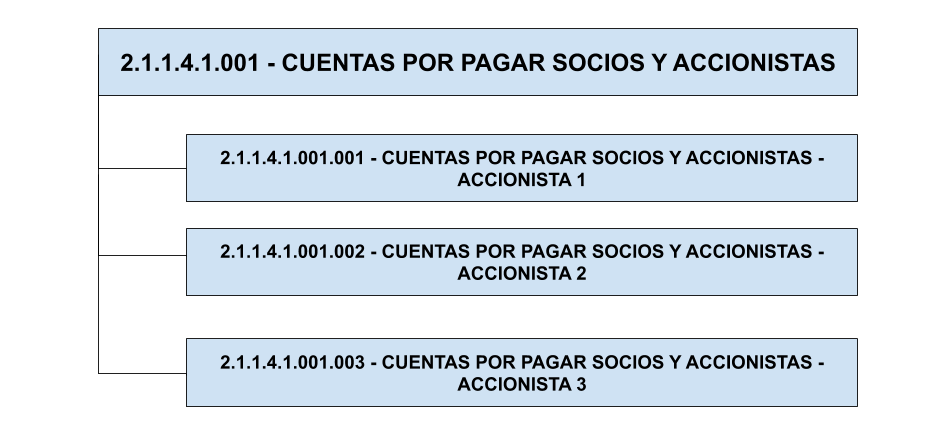
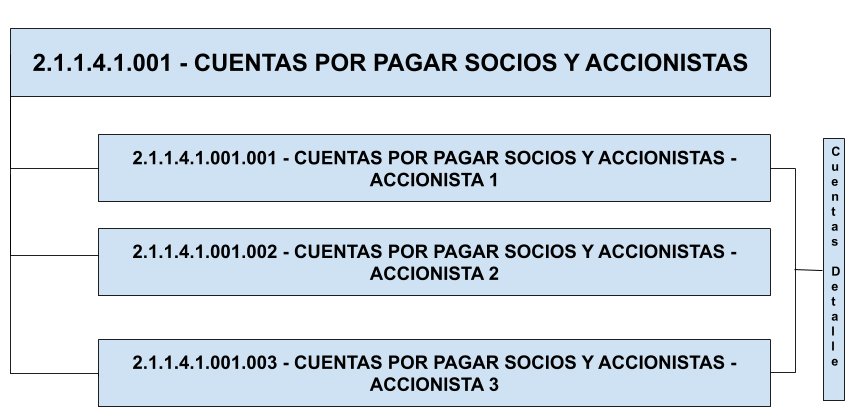
Add Change Varied (#262)
- Add info Report Financial
- Add info Accounting combination
- Add info Accounting dimensions
- Fixes: #257

diff --git a/src/adempiere/performance-analysis/accounting-dimensions.rst b/src/adempiere/performance-analysis/accounting-dimensions.rst
@@ -1,6 +1,8 @@
 .. _ERPyA: http://erpya.com
 .. |Ejemplo de Dimensión| image:: resources/Example-dimension.png
 .. |Dimensión Contable| image:: resources/Dimension-Accounting.png
+.. |Dimensión Socio de Negocio| image:: resources/dimension-BP.png
+
 .. _documento/dimensiones-contable:
 
 
@@ -8,40 +10,59 @@
 **Dimensiones Contables**
 =========================
 
-La dimensión contable es una funcionalidad incorporada por ADempiere utilizada para asociar información haciendo un recuento de los elementos que componen cada dimensión. Puede definir dimensiones primarias o secundarias respecto a las principales para implementar metricas sumarias de cada una.
+La dimensión contable es una funcionalidad incorporada por ADempiere utilizada para unir información haciendo un recuento de los hechos contables que componen cada entidad. De esta forma, se define dimensiones primarias o secundarias respecto a las principales, esto quiere decir, que puede existir una dimensión acumulativa que derive a su vez múltiples dimensiones que posibilitan la implementación de métricas sumarias de cada una o agrupadas por la dimensión padre.
 
-Estas dimensiones contables sustituyen cuentas auxiliares utilizadas comunmente por los contadores para visualizar en detalle saldos por ejemplo de socios de negocios que actuan como accionistas, para entenderlo mejor veamos el siguiente ejemplo:
+Estas dimensiones contables sustituyen cuentas auxiliares utilizadas comúnmente por los contadores para visualizar en detalle saldos, por ejemplo de socios de negocios que actúan como accionistas, para entenderlo mejor veamos el siguiente ejemplo:
 
-Imaginemos una empresa que requiere ver el saldos contable de los pasivos de cada accionista de la empresa, para esto la empresa ha definido una cuentas llamada "**CUENTAS POR PAGAR SOCIOS Y ACCIONISTAS-MARTÍN PIÑEROS**" que muestra el detalle del pasivo del accionista **Martín Piñeros**. De esta forma, se agrega un nivel más al plan de cuentas, agregando tantas cuentas como accionistas existan, quedando de la siguiente forma:
+    Imaginemos una empresa que requiere ver el saldos contable de los pasivos de cada accionista de la empresa, para esto la empresa ha definido una cuentas llamada "**CUENTAS POR PAGAR SOCIOS Y ACCIONISTAS-MARTÍN PIÑEROS**" que muestra el detalle del pasivo del accionista **Martín Piñeros**. Así mismo, se agrega un nivel más al plan de cuentas, agregando tantas cuentas como accionistas existan, quedando de la siguiente forma:
 
-    |Ejemplo de Dimensión|
+        |Ejemplo de Dimensión|
 
-    Imagen 1. Plan de cuentas con dimensiones
+        Imagen 1. Plan de cuentas con dimensiones
 
-Sin embargo, ADempiere contempla una visión holistica y minimalista, que elimina la creación de las multiples cuentas detalles y a su vez sustituyendolas por las dimensiones contables, quedando de la siguiente forma:
+Sin embargo, ADempiere contempla una visión holística y minimalista, que elimina la creación de múltiples cuentas contables para el detalle y a su vez las sustituye por las dimensiones contables, creando una combinación entre la cuenta contable y la dimensión, quedando de la siguiente forma:
+
+    |Dimensión Socio de Negocio|
+
+    Imagen 2. Dimensión Contable de Socio de Negocio
+
+Por su parte, al crear una transacción con esta dimensión contable el resultado será el siguiente:
 
     |Dimensión Contable|
 
-    Imagen 2. Dimensión Contable
+    Imagen 3. Dimensión Contable ADempiere
 
-Las entidades con las que ADempiere permite dimensionar son las siguientes:
+Las entidades con las que ADempiere permite dimensionar los diferentes hechos contables son las siguientes:
 
-    #. Organización
+    #. **Organización**: Representa una entidad legal dentro de la empresa, generalmente estructurada de forma dependiente a la compañía principal, esta puede ser una sucursal, tienda o franquicia.
 
-    #. Socio de negocio
+    #. **Socio de negocio**: Representa un sujeto jurídico o natural con el que la organización establece una alianza temporal o permanente, este puede ser un proveedor, cliente, accionista o empleado. Para profundizar más este tema vaya a el documento: :ref:`documento/socio-negocio`.
 
-    #. Producto
 
-    #. Región de Venta
+    #. **Producto**: Representa el resultado obtenido de una producción, que es utilizado durante la compra o la venta,  este puede ser servicio o artículo. Para profundizar más este tema vaya a el documento: :ref:`documento/producto`.
 
-    #. Actividad
+    #. **Región de Venta**: Representa una zona de venta o conjunto de clientes o prospectos que son asignados a un vendedor y con las que la empresa puede establecer un negocio. Para profundizar más este tema vaya a el documento: :ref:`documento/region-ventas`.
 
-    #. Proyecto
+    #. **Actividad**: Representa las actividades realizadas en la empresa, generalmente un departamento, permitiendo determinar el costo o el gasto de cada actividad. Para profundizar más este tema vaya a el documento: :ref:`documento/actividad`.
 
-    #. Campaña
+    #. **Proyecto**: Representa la planificación de actividades relacionadas al cumplimiento de un objetivo específico, generalmente delimitado por fases y tareas. Para profundizar más este tema vaya a el documento: :ref:`documento/proyecto`.
 
-    #. Usuario1 (**Definición a criterio del cliente**)
+    #. **Campaña**: Representa la agrupación de actividades realizadas con la finalidad de lograr un determinado objetivo. Para profundizar más este tema vaya a el documento: :ref:`documento/campaña`.
 
-    #. Usuario2 (**Definición a criterio del cliente**)
+    #. **Elementos Personalizados:** A menudo los clientes han preguntado ¿Cómo hacemos si nosotros manejamos una dimensión u otro elemento para medir nuestro desempeño?.
 
-    #. Usuario3 (**Definición a criterio del cliente**)
+    Pues bien, ADempiere deja a disposición del cliente cinco campos para personalizar a su criterio, los mismos, funcionan exactamente igual a las dimensiones anteriormente explicadas, estos son:
+
+        #. Usuario1
+
+        #. Usuario2
+
+        #. Usuario3
+
+        #. Usuario4
+
+        #. Usuario5
+
+Se puede decir entonces que una dimensión es el respaldo que da una entidad a un hecho contable, este sustituye la segmentación de cuentas contables mediante creación de cuentas detalles, en consecuencia, los asientos contables son generados a partir de las transacciones en las cuales intervienen las entidades consideradas dimensiones.
+
+Finalmente, esta funcionalidad es implementada desde los reportes contables detallados hasta los informes financieros, permitiendo esquematizar la información de forma segmentada por entidad.

diff --git a/src/adempiere/performance-analysis/accounting-combination.rst b/src/adempiere/performance-analysis/accounting-combination.rst
@@ -24,31 +24,49 @@ Para realizar una configuración de combinación contable en ADempiere, se debe 
 
     Imagen 1. Ventana Combinación
 
-    #. Seleccione en el campo "**Alias**", el alias correspondiente a la combinación contable que esta configurando.
+    #. Seleccione en el campo "**Alias**", el alias correspondiente a la combinación contable que está configurando.
+
+        El alias no es un campo obligatorio, sin embargo, le permite definir un nombre a la combinación que define, por defecto ADempiere crea un alias.
 
         |Campo Alias|
 
         Imagen 2. Campo Alias de la Ventana Combinación
 
-    #. Seleccione en el campo "**Organización**, la organización para la cual esta realizando la configuración contable.
+    #. Seleccione en el campo "**Organización**, la organización para la cual está realizando la configuración contable.
+
+        La organización puede ser o no obligatorio dependiendo de la definición del cliente, es decir, un cliente puede definir como obligatoria la organización, para este caso el registro de la combinación no podrá ser guardada si no selecciona una organización.
+
+        De esta forma, permite dimensionar el asiento contable por organización, para entender un poco más este tema vaya al documento: :ref:`documento/dimensiones-contable`.
 
         |Campo Organización|
 
         Imagen 3. Campo Organización de la Ventana Combinación
 
-    #. Seleccione en el campo "**Actividad**", la actividad para la cual esta realizando la configuración contable.
+    #. Seleccione en el campo "**Actividad**", la actividad para la cual está realizando la configuración contable.
+
+        La actividad puede ser o no obligatoria dependiendo de la definición del cliente, es decir, un cliente puede definir como obligatoria la actividad, para este caso el registro de la combinación no podrá ser guardado si no selecciona una actividad.
+
+        De esta forma, permite dimensionar el asiento contable por actividad, para entender un poco más este tema vaya al documento: :ref:`documento/dimensiones-contable`.
+
 
         |Campo Actividad|
 
         Imagen 4. Campo Actividad de la Ventana Combinación
 
-    #. Seleccione en el campo "**Socio del Negocio**", el socio del negocio para el cual esta realizando la configuración contable.
+    #. Seleccione en el campo "**Socio del Negocio**", el socio del negocio para el cual está realizando la configuración contable.
+
+        El socio de negocio puede ser o no obligatoria dependiendo de la definición del cliente, es decir, un cliente puede definir como obligatorio un socio de negocio, para este caso el registro de la combinación no podrá ser guardado si no selecciona un socio de negocio.
+
+        De esta forma, permite dimensionar el asiento contable por socio de negocio, para entender un poco más este tema vaya al documento: :ref:`documento/dimensiones-contable`.
 
         |Campo Socio del Negocio|
 
         Imagen 5. Campo Socio del Negocio de la Ventana Combinación
 
-    #. Introduzca en el campo "**Combinación**", el nombre de la combinación contable que esta configurando. 
+    #. Introduzca en el campo "**Combinación**", el nombre de la combinación contable que está configurando.
+
+        La combinación no es un campo obligatorio, sin embargo, le permite definir un nombre a la combinación que define, por defecto ADempiere crea un nombre.
+
 
         |Campo Combinación|
 
@@ -56,9 +74,13 @@ Para realizar una configuración de combinación contable en ADempiere, se debe 
 
         .. note::
 
-            Este campo no es obligatorio, ya que al agregar la cuenta y 
+            Este campo no es obligatorio, ya que al agregar la cuenta y
 
     #. Seleccione con ayuda del identificador del campo "**Cuenta**", la cuenta en la cual se van a reflejar los movimientos que se van a realizar.
+
+        La cuenta es un campo obligatorio, y le permite seleccionar la cuenta en la cual será registrado el hecho contable.
+
+
 
         |Campo Cuenta|
 
@@ -73,11 +95,19 @@ Para realizar una configuración de combinación contable en ADempiere, se debe 
 
     #. Seleccione en el campo "**Centro de Costos**", el centro de costos definido para los movimientos que se van a realizar en la cuenta seleccionada.
 
+        El centro de costo puede ser o no obligatoria dependiendo de la definición del cliente, es decir, un cliente puede definir como obligatorio un centro de costo, para este caso el registro de la combinación no podrá ser guardado si no selecciona un centro de costo.
+
+        De esta forma, permite dimensionar el asiento contable por centro de costo, para entender un poco más este tema vaya al documento: :ref:`documento/dimensiones-contable`.
+
         |Campo Centro de Costos|
 
         Imagen 9. Campo Centro de Costos de la Ventana Combinación
 
-    #. Seleccione en el campo "**Producto**", el producto al cual le será aplicado la combinación contable que esta configurando.
+    #. Seleccione en el campo "**Producto**", el producto al cual le será aplicado la combinación contable que está configurando.
+
+        El producto puede ser o no obligatoria dependiendo de la definición del cliente, es decir, un cliente puede definir como obligatorio un producto, para este caso el registro de la combinación no podrá ser guardado si no selecciona un producto.
+
+        De esta forma, permite dimensionar el asiento contable por producto, para entender un poco más este tema vaya al documento: :ref:`documento/dimensiones-contable`.
 
         |Campo Producto|
 
@@ -94,4 +124,3 @@ Para realizar una configuración de combinación contable en ADempiere, se debe 
             |Opción OK|
 
             Imagen 12. Opción OK de la Ventana Combinación
-

diff --git a/src/adempiere/performance-analysis/accounting-reports/financial-report/generate-financial-report.rst b/src/adempiere/performance-analysis/accounting-reports/financial-report/generate-financial-report.rst
@@ -97,7 +97,7 @@
 
     #. Seleccione el tipo de aplicación en el campo "**Tipo de Aplicación**".
 
-        El tipo de aplicación no es un campo obligatorio, sin embargo, le permite filtrar la información por tipo de aplicación, que generalmente es utilizado para clasificar el tipo de contabilidad aplicado, el tipo de aplicación establecido por defecto es actual, basado en la configuración previa en las "**Columnas de Informe**" asociada al informe financiero, no obstante, podrá seleccionar entre, actual, presupuesto, reserva, compromiso y estadística, es decir, el informe financiero podrá emitir saldos contables de un tipo de aplicación específico al seleccionarlo, si por el contrario, el campo está vacío **ADempiere** mostrará la información contable del tipo de aplicación "**Actual**".
+        El tipo de aplicación no es un campo obligatorio, sin embargo, le permite filtrar la información por tipo de aplicación, que generalmente es utilizado para clasificar el tipo de contabilidad aplicado, el tipo de aplicación establecido por defecto es actual, basado en la configuración previa en las "**Columnas de Informe**" asociada al informe financiero, no obstante, podrá seleccionar entre, actual, presupuesto, reserva, compromiso y estadística, es decir, el informe financiero podrá emitir saldos contables de un tipo de aplicación específico al seleccionarlo, si por el contrario, el campo está vacío **ADempiere** mostrará la información contable del tipo de aplicación "**Actual**". Para profundizar más este tema vaya a el documento: :ref:`documento/tipo-de-aplicación`
 
         |Campo Tipo de Aplicación|
 

diff --git a/src/adempiere/performance-analysis/accounting-element/index.rst b/src/adempiere/performance-analysis/accounting-element/index.rst
@@ -13,7 +13,7 @@ Esta estructura actúa como el plan de cuentas contable, presentando una lista d
 
 El método consiste en asignar un número decimal que nos permita asociar la clasificación de las cuentas:
 
-    #. **Cuentas Reales**: Son denominadas así las cuentas que mantienen saldo durante y posterior a un periodo contable y que son conservadas en el balances. Generalmente estas cuentas son útiles para :ref:`documento/informe-financiero`:
+    #. **Cuentas Reales**: Son denominadas así las cuentas que mantienen saldo durante y posterior a un periodo contable y que son conservadas en el balances. Generalmente estas cuentas son útiles para :ref:`documento/informe-financiero`, dentro de estas cuentas se encuentran::
 
         #. **Activos:** Se refiere a los bienes de los que una empresa dispone y tiene derechos, sean tangibles o intangibles.
 
@@ -21,7 +21,7 @@ El método consiste en asignar un número decimal que nos permita asociar la cla
 
         #. **Patrimonio:** Se refiere a los aportes realizados por accionistas de la empresa.
 
-    #. **Cuentas Nominales**: Son denominadas así las cuentas que son cerradas al finalizar el período contable, transfiriendo el saldo a las cuentas reales, y posteriormente iniciarán con saldo:
+    #. **Cuentas Nominales**: Son denominadas así las cuentas que son cerradas al finalizar el período contable, transfiriendo el saldo a las cuentas reales, y posteriormente iniciarán con saldo cero, con el objetivo de iniciar el balance con estas cuentas limpias, dentro de estas cuentas se encuentran:
 
         #. **Ingresos:** Se refiere a la ganancia o dinero que ingresa a la empresa.
 
